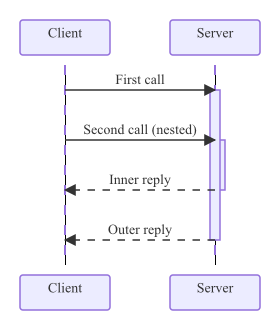
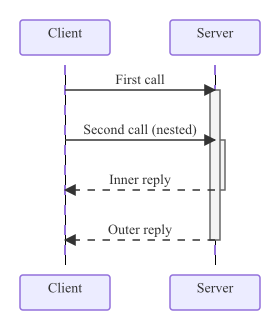
sequence: Q6+Q7 rect-block fill order, no border, gray activation bars (#125)
Q6 (rect block): the colored fill rect was emitted *after* its
content, so it covered the messages and washed-out their text.
Render the rect *first* and append content on top. Also drop the
dark stroke — mmdc has no border on rect blocks; the colored band
is the entire visual cue.

Q7 (activation bars): switch fill from ParticipantFill (#ECECFF) +
ParticipantStroke (#9370DB) to neutral #F4F4F4 + #666 so bars don't
read as part of the purple lifeline/participant theme — mmdc parity.

Refreshes 13 example snapshots.

Changed region(s): [[0.7429, 0.2727, 0.8286, 0.7273]]

diff --git a/pkg/renderer/sequence/messages.go b/pkg/renderer/sequence/messages.go
@@ -293,8 +293,7 @@ func (mr *messageRenderer) renderBlock(b diagram.Block, depth int) []any {
 	blockHeaderGap := defaultRowHeight / 2
 	mr.curY += blockHeaderGap
 
-	var elems []any
-	elems = append(elems, mr.renderItems(b.Items, false, depth+1)...)
+	content := mr.renderItems(b.Items, false, depth+1)
 
 	var branchYs []float64
 	for _, br := range b.Branches {
@@ -302,7 +301,7 @@ func (mr *messageRenderer) renderBlock(b diagram.Block, depth int) []any {
 		// Full row matches the slot countBlockRows reserves so the
 		// bracket label clears the next message's above-line label.
 		mr.curY += defaultRowHeight
-		elems = append(elems, mr.renderItems(br.Items, false, depth+1)...)
+		content = append(content, mr.renderItems(br.Items, false, depth+1)...)
 	}
 	blockFooterGap := defaultRowHeight / 2
 	mr.curY += blockFooterGap
@@ -322,12 +321,13 @@ func (mr *messageRenderer) renderBlock(b diagram.Block, depth int) []any {
 		w = mr.lay.width - 2*x
 	}
 
-	// Non-rect blocks render with a dashed border for mmdc parity;
-	// rect uses solid since it carries a fill that should read as a
-	// distinct shape, not a flow-control region.
+	// Non-rect blocks render with a dashed border for mmdc parity.
+	// Rect blocks carry only a fill (no border) since the colored
+	// region is the entire visual cue — a dark stroke would read as
+	// a flow-control region instead.
 	blockStyle := fmt.Sprintf("fill:none;stroke:%s;stroke-width:%.1f;stroke-dasharray:5,5", mr.th.MessageStroke, defaultStrokeWidth)
 	if b.Kind == diagram.BlockKindRect && b.Fill != "" {
-		blockStyle = fillStyleWithOpacity(b.Fill, mr.th.MessageStroke, b.HasAlpha, defaultBlockFillOpacity)
+		blockStyle = fillStyleWithOpacity(b.Fill, "none", b.HasAlpha, defaultBlockFillOpacity)
 	}
 
 	rectY := startY - defaultRowHeight/4
@@ -337,12 +337,23 @@ func (mr *messageRenderer) renderBlock(b diagram.Block, depth int) []any {
 		rectH = math.Max(0, endY-startY-blockHeaderGap-blockFooterGap-defaultRowHeight/2)
 	}
 
-	elems = append(elems, &rect{
+	// Rect blocks emit the fill *before* their content so messages
+	// draw on top of the colored band. Other block kinds have
+	// fill:none and can emit in either order.
+	bodyRect := &rect{
 		X: svgFloat(x), Y: svgFloat(rectY),
 		Width: svgFloat(w), Height: svgFloat(rectH),
 		RX: 3, RY: 3,
 		Style: blockStyle,
-	})
+	}
+	var elems []any
+	if b.Kind == diagram.BlockKindRect {
+		elems = append(elems, bodyRect)
+		elems = append(elems, content...)
+	} else {
+		elems = append(elems, content...)
+		elems = append(elems, bodyRect)
+	}
 
 	if b.Kind != diagram.BlockKindRect {
 		kindLabel := b.Kind.String()
@@ -466,8 +477,10 @@ func (mr *messageRenderer) activationRect(id string, startY, endY float64, depth
 	return &rect{
 		X: svgFloat(x - defaultActivationW/2 + offset), Y: svgFloat(startY),
 		Width: svgFloat(defaultActivationW), Height: svgFloat(endY - startY),
+		// Neutral gray so bars don't visually compete with the
+		// purple lifeline / participant theme — mmdc parity.
 		Style: fmt.Sprintf("fill:%s;stroke:%s;stroke-width:%.1f",
-			mr.th.ParticipantFill, mr.th.ParticipantStroke, defaultStrokeWidth),
+			"#F4F4F4", "#666", defaultStrokeWidth),
 	}
 }
 
